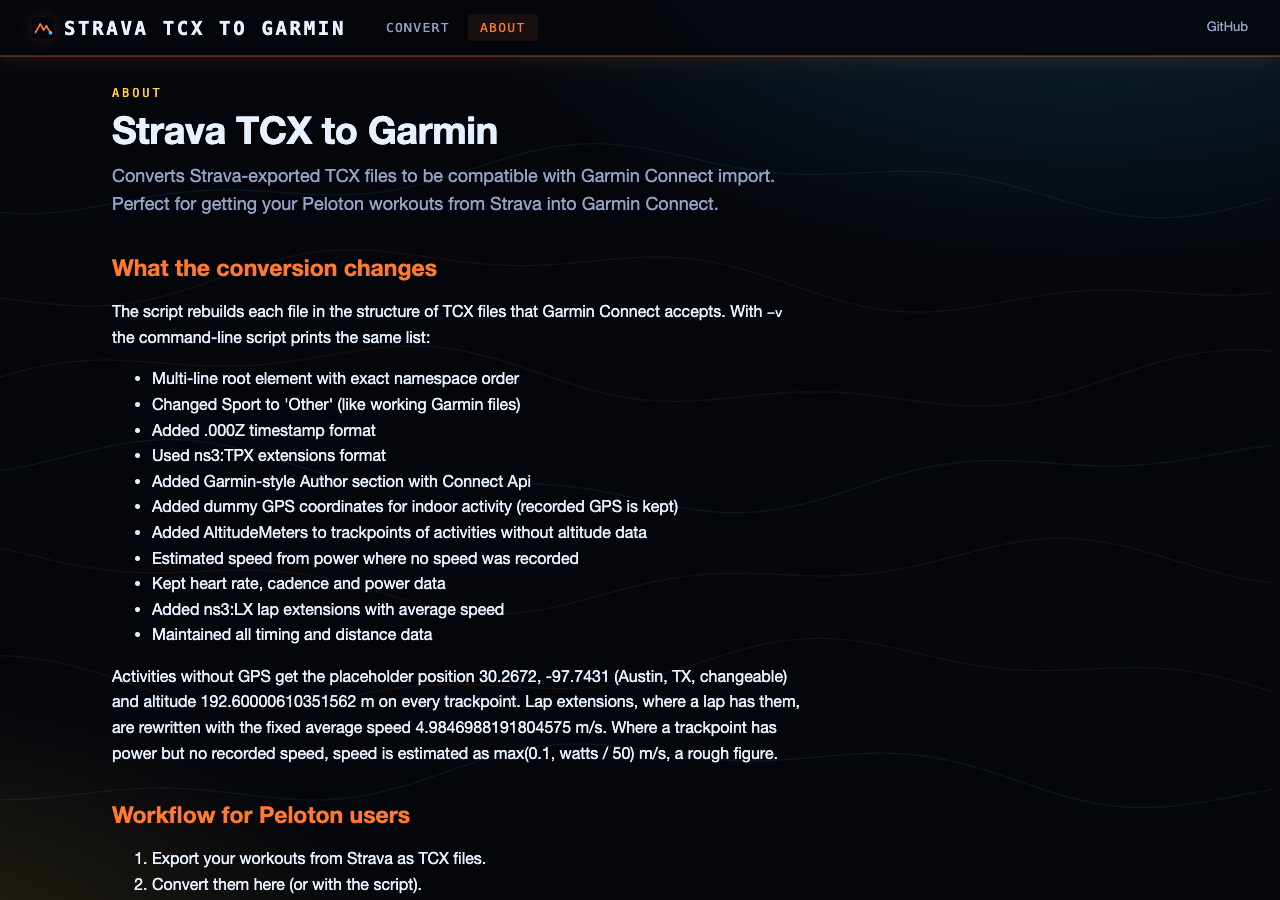
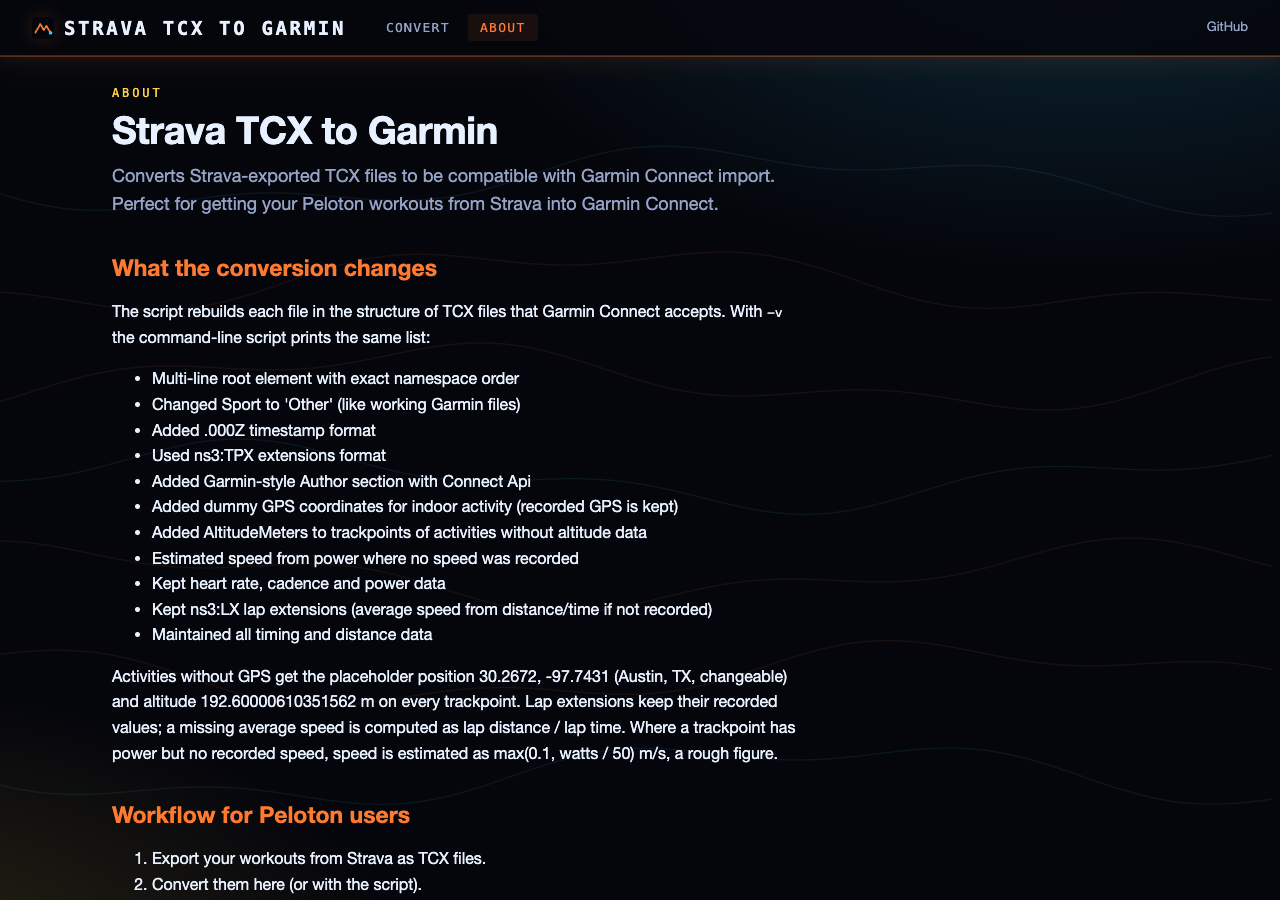
Update session log and About screenshot after the lap and batch fixes

Changed region(s): [[0.0938, 0.7778, 0.625, 0.84], [0.125, 0.6533, 0.5625, 0.6844]]

diff --git a/SESSION_LOG.md b/SESSION_LOG.md
@@ -24,6 +24,13 @@
   preview summary. `tests/test_js_port.py`: 800 seeded mutated files agree (outputs or both rejected); ad-hoc fuzzing
   during development: 30,000 timestamps and 4,500 files, 0 differences after fixing two port gaps.
 - Not ported: ISO week dates (`2024-W03-1`) in `fromisoformat` (TCX never uses them; JS leaves them unchanged).
-- Open for George (not changed): lap `Extensions` are replaced by a fixed AvgSpeed 4.9847 m/s (recorded lap
-  values such as AvgSpeed/AvgWatts are dropped); batch mode in the input folder re-converts earlier `*_garmin.tcx`
-  outputs on a second run; the output indentation is uneven (cosmetic, kept for byte-identical output).
+- Open at first (cosmetic, not changed): the output indentation is uneven; kept so the output stays byte-identical.
+
+## 2026-11-11 (later): follow-up fixes requested via the lead
+- Lap extensions keep their recorded ns3:LX values (AvgSpeed, AvgWatts, MaxWatts, ... in schema order); a missing
+  AvgSpeed is computed as DistanceMeters / TotalTimeSeconds (omitted if not computable). The fixed 4.98 m/s constant
+  (DEFAULT_AVG_SPEED) is gone. JS port updated; edge-case sample gained a lap without AvgSpeed; fixtures regenerated.
+- Batch mode skips earlier `*_garmin.tcx` outputs (reported as skipped) and processes files in sorted order; a
+  single-file conversion refuses to write over its own input.
+- All checks re-run: pytest 42 passed (tests/ + test_tcx_converter.py), node 144 checks byte-identical, screenshots
+  static + local all ok, Python check in the local app byte-identical.
